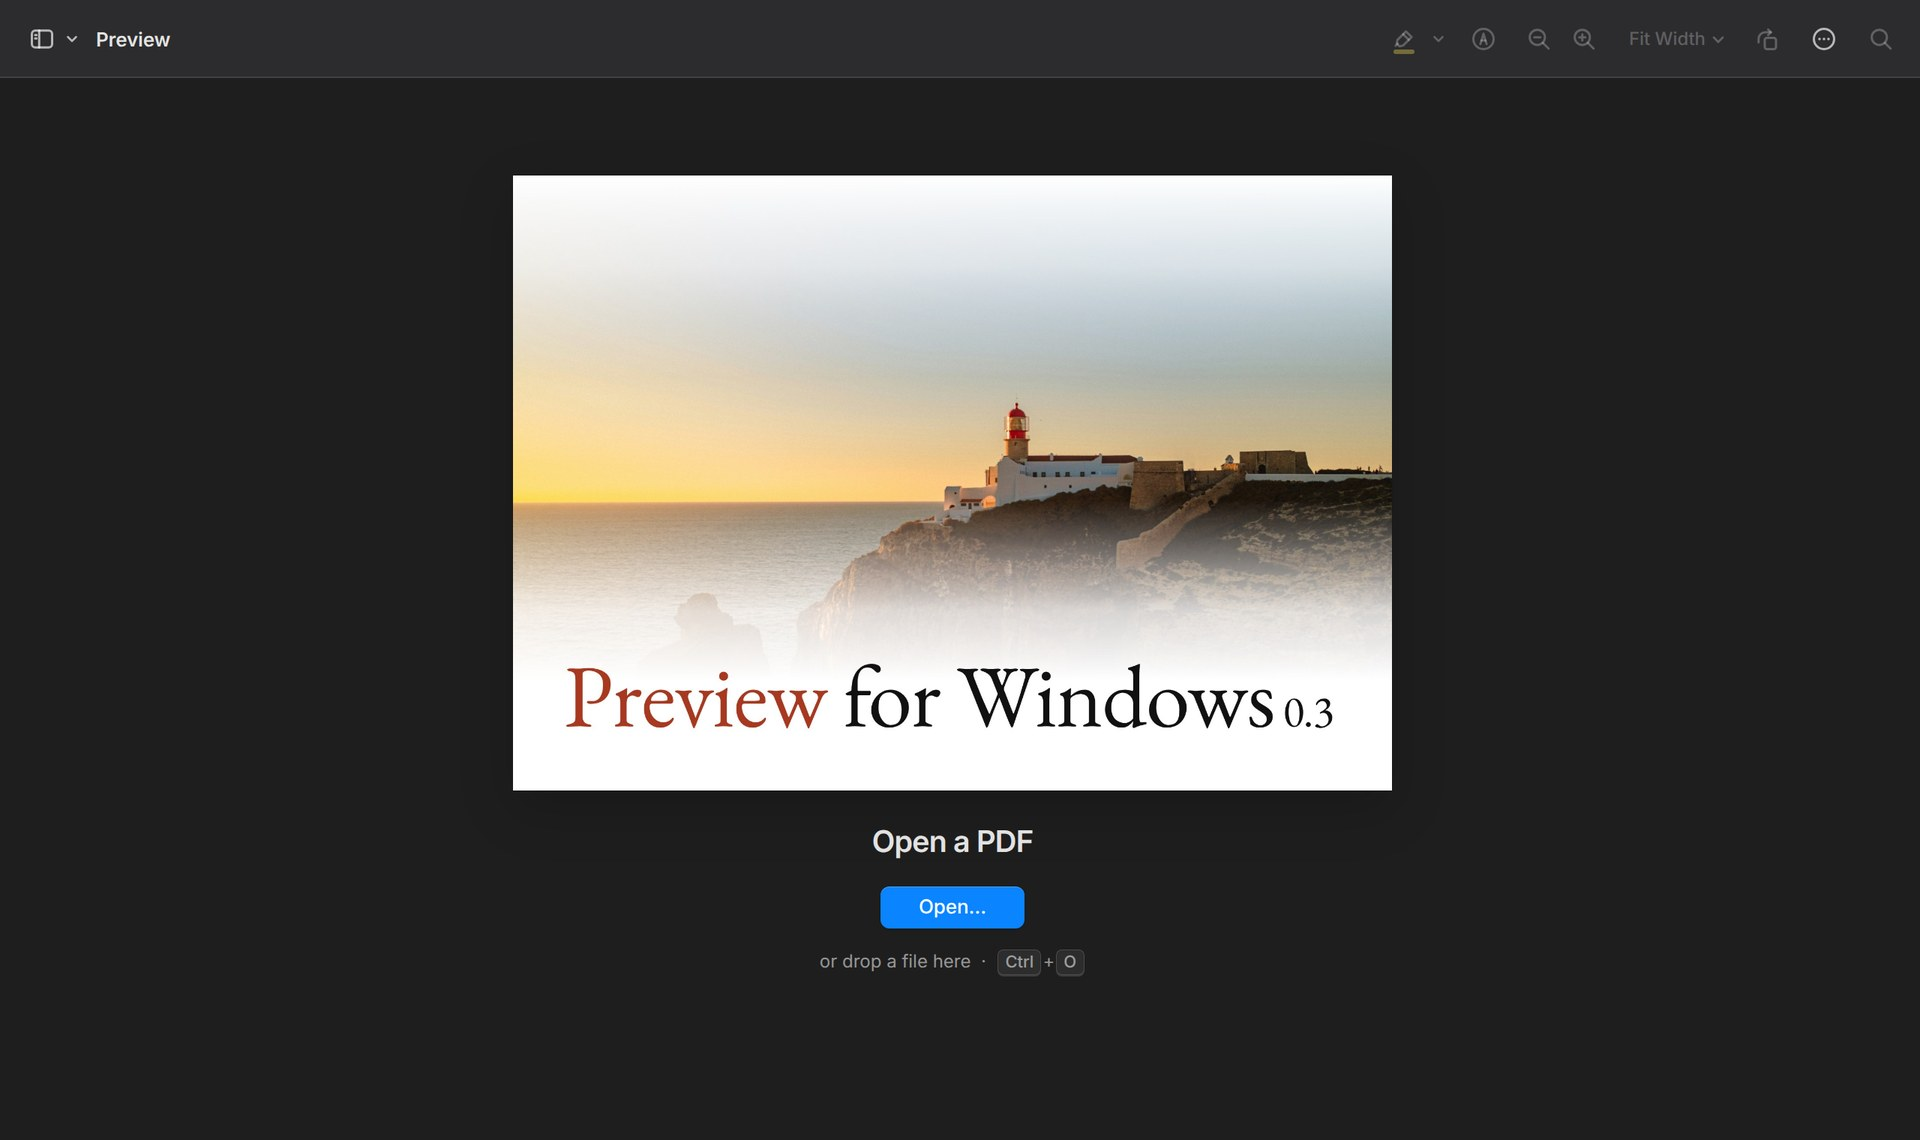
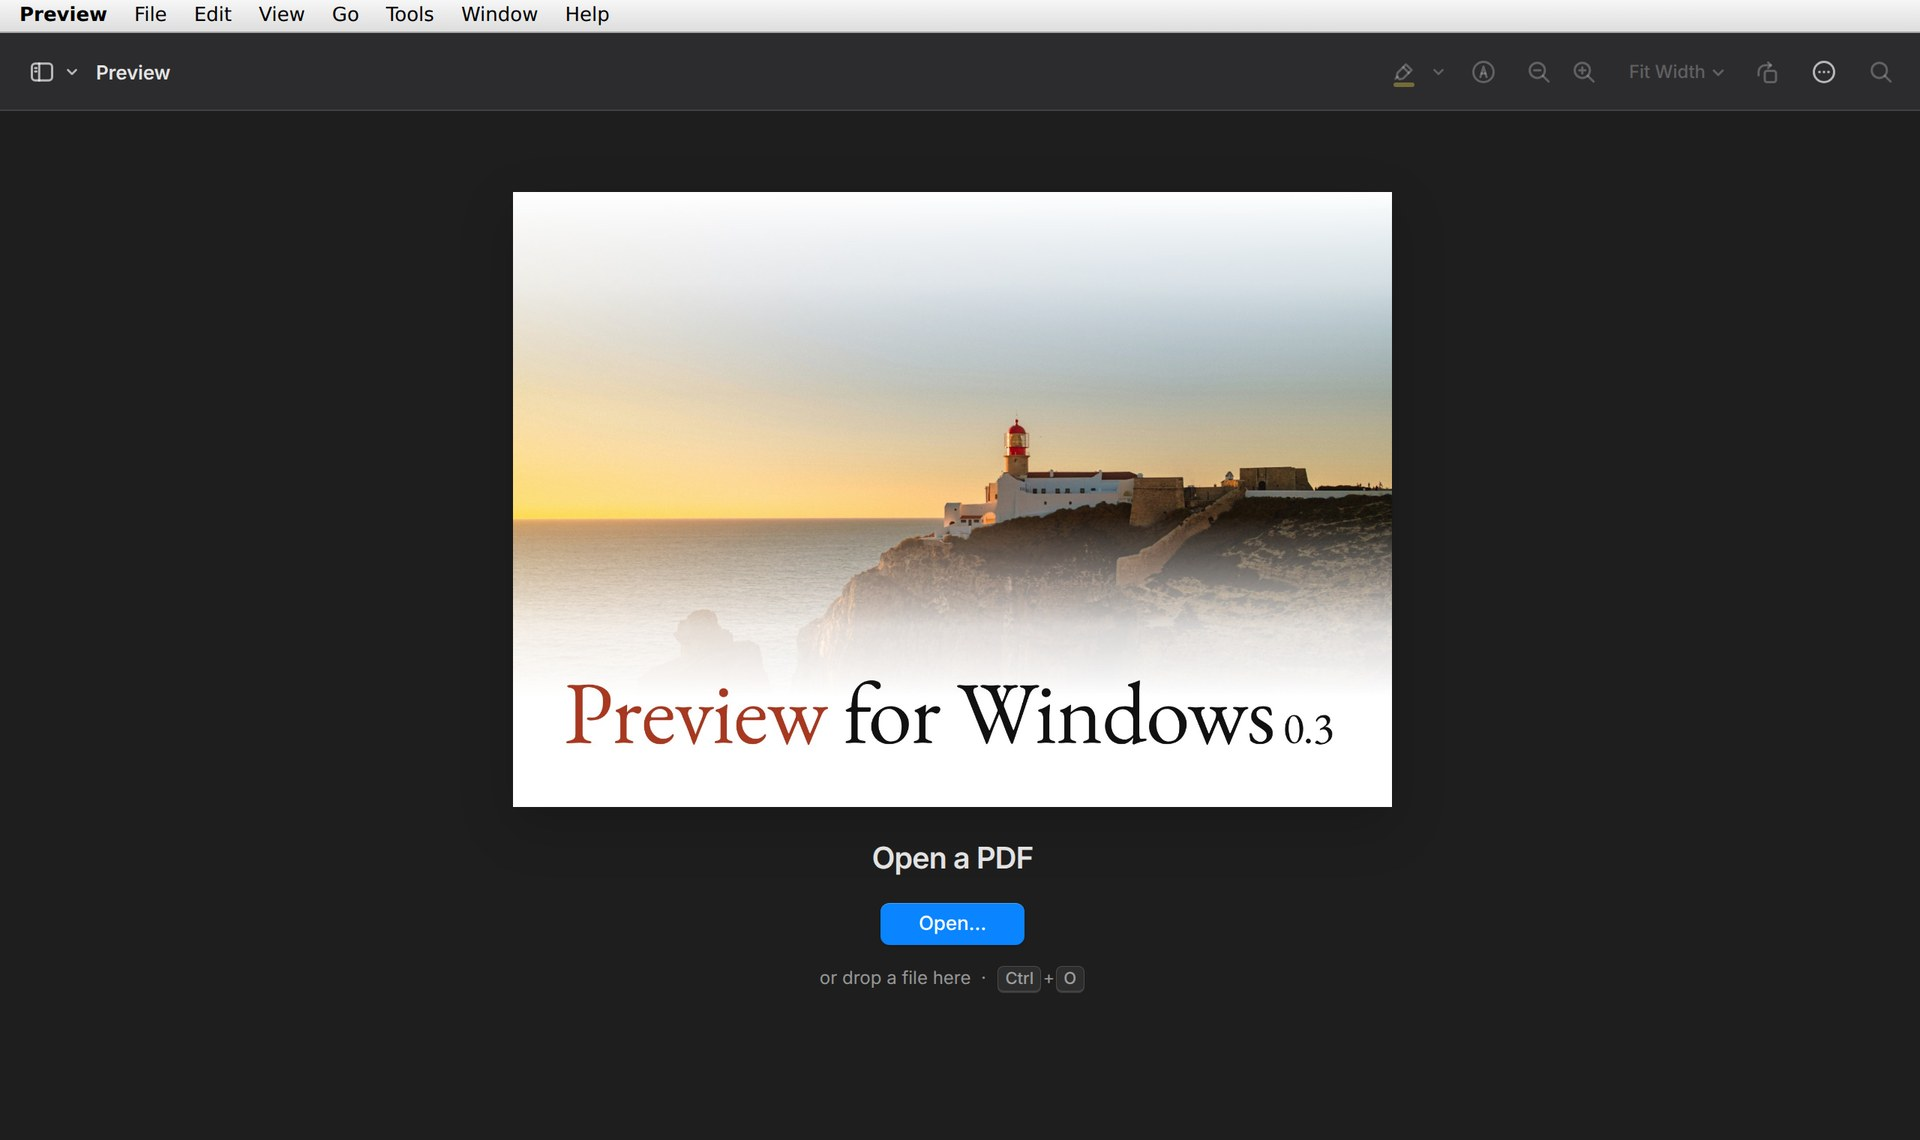
release: 0.4.0 with the Lion menu bar and Settings
Bumps the version, documents the menu bar and Settings in the README
(features, shortcuts, layout, version history) and the tech stack,
and refreshes the screenshots with the menu bar.

diff --git a/README.md b/README.md
@@ -9,14 +9,11 @@ annotations.
 
 <picture>
   <source media="(prefers-color-scheme: dark)" srcset="docs/screenshot-dark.png">
-  <img alt="A document in Two Pages with the thumbnail sidebar and the markup toolbar open, showing a highlight, an underline, a strikethrough, a rounded rectangle, an arrow, a text box, a note, an oval and a freehand check mark" src="docs/screenshot.png">
+  <img alt="The Lion-style menu bar above a document in Two Pages, with the thumbnail sidebar and the markup toolbar open, showing a highlight, an underline, a strikethrough, a rounded rectangle, an arrow, a text box, a note, an oval and a freehand check mark" src="docs/screenshot.png">
 </picture>
 
-**Version 0.3.5** · Windows 10 and 11, x64 · portable `Preview.exe` (about 7 MB) or a
+**Version 0.4.0** · Windows 10 and 11, x64 · portable `Preview.exe` (about 7 MB) or a
 per-user installer (about 4.6 MB) · no network access, no telemetry.
-
-In progress: an in-window menu bar (Preview, File, Edit, View, Go, Tools, Window, Help)
-and a Settings window, both in the style of Mac OS X Lion.
 
 ## Contents
 
@@ -83,6 +80,19 @@ and a Settings window, both in the style of Mac OS X Lion.
   they use. Reopening a file saved by this app makes its annotations editable again;
   annotations made by other apps are shown and kept, but not editable.
 
+**Menu bar and Settings**, in the style of Mac OS X Lion
+
+- A menu bar inside the window (Preview, File, Edit, View, Go, Tools, Window, Help) set in
+  Lucida, with every feature of the app in it. Click a title and slide across the others
+  like on a Mac, or use the keyboard like on Windows: `Alt` or `F10` focuses the bar,
+  `Alt`+underlined letter opens a menu, arrows move, `Enter` runs. View › Menu Bar hides
+  it; `Alt` still brings it back. Help › Keyboard Shortcuts lists every shortcut.
+- Settings… (`Ctrl+,`) opens a Lion preferences window with General, Markup and Window
+  panes: default zoom for new files, page layout and Book Mode, showing the sidebar when
+  a document opens, remembering each file's position, the default highlight color, shape
+  color, line width and text size, and showing the menu bar. Changes apply at once.
+- The menu bar and Settings stay light in the dark theme, as Lion had no dark mode.
+
 **Looks like a Mac app**
 
 - Unified 52 px title bar and toolbar, Mica backdrop on Windows 11, Inter, SF-style
@@ -101,6 +111,8 @@ Password-protected and non-PDF files show an inline error instead of a blank win
 | Action | Keys |
 | --- | --- |
 | Open | `Ctrl+O` |
+| Settings | `Ctrl+,` |
+| Menu bar: focus / open a menu | `Alt` or `F10` / `Alt`+underlined letter |
 | Find / close find | `Ctrl+F` / `Esc` |
 | Next / previous match (in the find field) | `Enter` / `Shift+Enter` |
 | Zoom in / out / 100% | `Ctrl+=` / `Ctrl+-` / `Ctrl+0` |
@@ -141,7 +153,7 @@ A build produces two files:
 | Reading PDFs | [pdf.js](https://mozilla.github.io/pdf.js/) 6.4 (`pdfjs-dist`), assets bundled for offline use |
 | Writing PDFs | `@cantoo/pdf-lib` 2.11 and `@cantoo/fontkit` 2.0 (Malgun Gothic subsets) |
 | Build | Cross-compiled from Linux/WSL2 with cargo-xwin, clang-cl and lld-link; NSIS installer |
-| Tests | Vitest 5 (460 unit tests), Playwright 1.64 (202 end-to-end tests), PDFium checks of saved files, WebView2 DevTools checks of the real exe |
+| Tests | Vitest 5 (499 unit tests), Playwright 1.64 (242 end-to-end tests), PDFium checks of saved files, WebView2 DevTools checks of the real exe |
 
 Versions, licenses, the reasons behind each choice and how the tests are layered are in
 [docs/tech-stack.md](docs/tech-stack.md).
@@ -225,6 +237,9 @@ src-tauri/          Tauri 2 shell (Rust): file read/write, startup file, dialogs
 src/app.ts          wires platform, store and components; open/save/close flows; shortcut dispatch;
                     registers every feature as a command
 src/commands.ts     the command registry menus are built from
+src/menubar/        the in-window menu bar: menus as lists of command ids, Lion drop-downs,
+                    keyboard handling, the Keyboard Shortcuts panel
+src/settings/       the settings model (localStorage) and the Lion Settings window
 src/store.ts        app state with subscriptions
 src/viewer/         virtualised page view (continuous and two pages) + pure layout and zoom math
 src/pdf/            pdf.js document wrapper, cancellable page renderer, text layer
@@ -237,7 +252,7 @@ src/sidebar/        thumbnails and outline
 src/toolbar/        toolbar, page indicator, zoom menu
 src/platform/       Platform interface, Tauri implementation, browser shim for tests
 src/ui/             Mac-style icons, menus, alerts and the About window
-src/state/          per-file last position and window-wide preferences (localStorage)
+src/state/          per-file last position (localStorage)
 src/assets/         Inter font, splash image
 tests/unit/         Vitest
 tests/e2e/          Playwright
@@ -259,6 +274,7 @@ Each feature has a design document in `docs/superpowers/specs/` and a plan in
 | 0.3.1 – 0.3.3 | 2026-10-26 – 27 | App icon from the author's artwork, splash and About window |
 | 0.3.4 | 2026-10-27 | Photographic splash with the name set in EB Garamond |
 | 0.3.5 | 2026-10-27 | Square corners on the splash and the About window |
+| 0.4.0 | 2026-10-27 | In-window menu bar and Settings window in the style of Mac OS X Lion; every feature is a named command |
 
 ## Credits and licenses
 

diff --git a/docs/tech-stack.md b/docs/tech-stack.md
@@ -6,7 +6,7 @@ interface, and a TypeScript app reads, renders and writes PDFs with pdf.js and p
 Everything is built on Linux (WSL2) and cross-compiled for Windows.
 
 Versions are the ones locked in `package-lock.json` and `src-tauri/Cargo.lock` as of
-release 0.3.5.
+release 0.4.0.
 
 ```
 Preview.exe  (Rust, Tauri 2; about 7 MB, portable)
@@ -35,6 +35,7 @@ Preview.exe  (Rust, Tauri 2; about 7 MB, portable)
 | PDF writing | `@cantoo/pdf-lib` | 2.11.1 | Saving edited documents and annotations; a maintained pdf-lib fork that also reads encrypted files | MIT |
 | Fonts in PDFs | `@cantoo/fontkit` | 2.0.12 | Subsets Malgun Gothic for text boxes (`@pdf-lib/fontkit` crashed on `malgun.ttf`) | MIT |
 | UI font | Inter (variable) | bundled | Interface text, with Malgun Gothic for Hangul | SIL OFL 1.1 (`src/assets/fonts/OFL.txt`) |
+| Menu bar font | Lucida Sans Unicode | system | The Mac OS X Lion menu bar and Settings window (Lion used Lucida Grande, which Windows does not have) | Microsoft, part of Windows |
 
 Annotations are drawn by the app's own overlays and saved as standard PDF annotations
 with appearance streams, so Acrobat, Edge, Chrome and Mac Preview show them as drawn.
@@ -78,8 +79,8 @@ whole build.
 
 | Layer | Tool | What it covers |
 | --- | --- | --- |
-| Unit | Vitest 5.0.5 (460 tests, 25 files) | Layout and zoom math, search, shortcuts, page composition and undo history, outline remapping, annotation geometry, appearance streams, writer and reader, preferences, commands |
-| End to end | Playwright 1.64.1 (202 tests) | The built app in headless Chromium through a browser platform shim (`src/platform/browser.ts`): opening, viewing, page editing, saving, markup, menus, dialogs. Each worktree runs on its own `PW_PORT` |
+| Unit | Vitest 5.0.5 (499 tests, 29 files) | Layout and zoom math, search, shortcuts, page composition and undo history, outline remapping, annotation geometry, appearance streams, writer and reader, preferences, commands |
+| End to end | Playwright 1.64.1 (242 tests) | The built app in headless Chromium through a browser platform shim (`src/platform/browser.ts`): opening, viewing, page editing, saving, markup, menus, dialogs. Each worktree runs on its own `PW_PORT` |
 | Other viewers | PDFium via pypdfium2 (`scripts/pdfium-render.py`) | Saved annotations render in Chrome and Edge's engine where they were drawn, also on rotated pages |
 | Real Windows | `scripts/cdp-windows.ps1` | Drives the real `Preview.exe` through WebView2's DevTools protocol with its own profile, without touching the user's desktop |
 | Fixtures | reportlab (`scripts/make-fixtures.py`) | Mixed page sizes, 300 pages, outline, links, encrypted and broken files, a Korean document |
